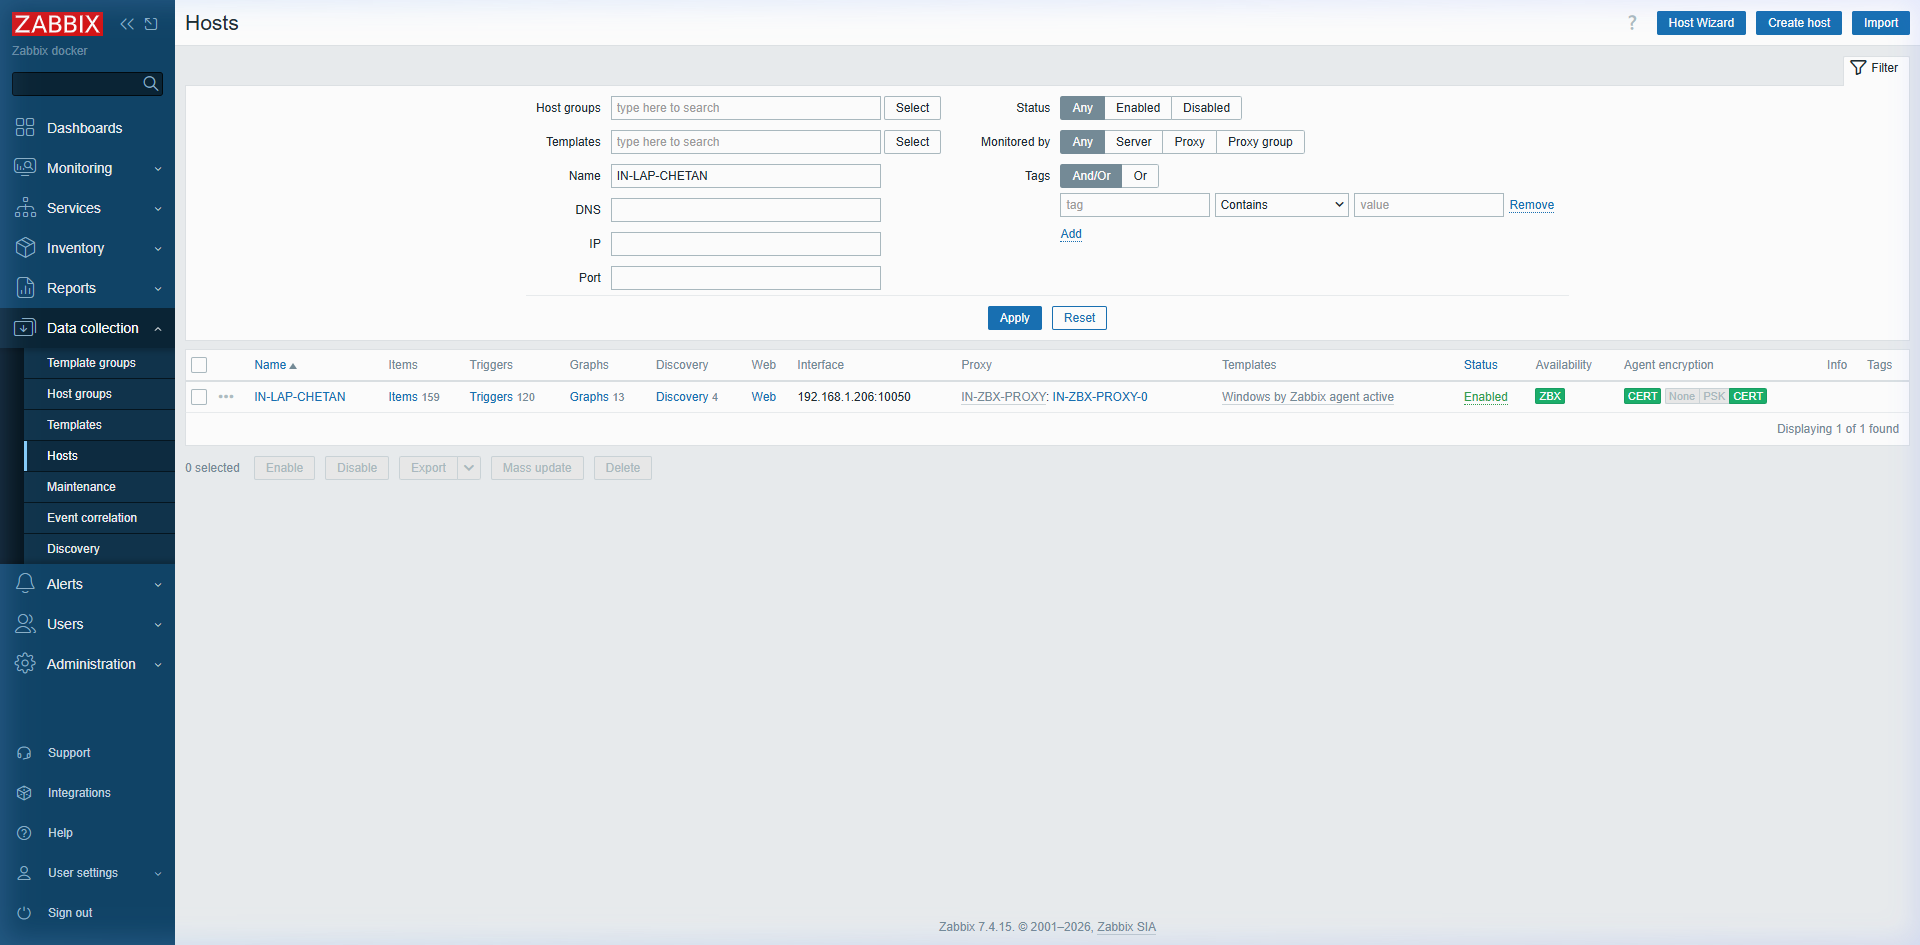
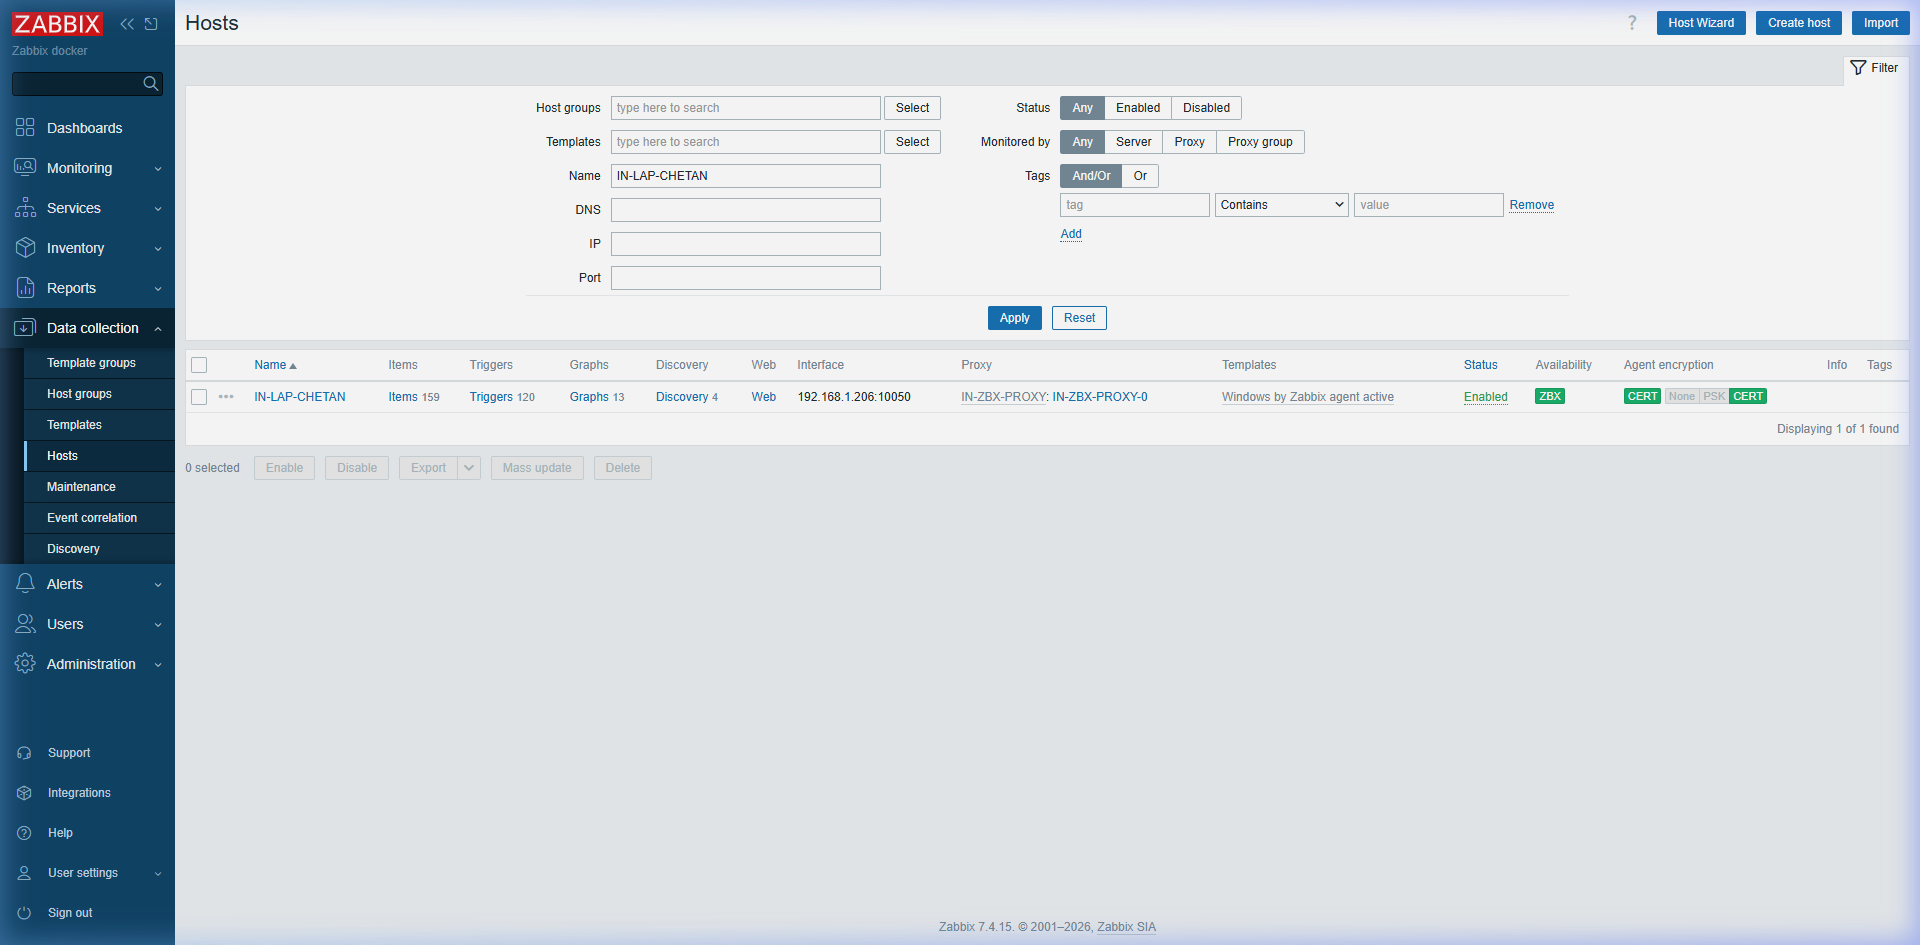
feat(zabbix): implement single fleet wildcard certificate for agent mTLS and clarify subdomain topology

Changed region(s): [[0.4375, 0.0, 1.0, 1.0]]

diff --git a/05-infra-apps/06-zabbix/README.md b/05-infra-apps/06-zabbix/README.md
@@ -932,31 +932,28 @@ Furthermore, the agent is configured in a **Hybrid Dual-Mode** adhering to indus
 
 ---
 
-### 📋 Step-by-Step Configuration Guide
+### 📋 Step-by-Step Configuration Guide (Single Fleet Wildcard Certificate)
 
-#### Step 1: Issue Host Certificate via cert-manager
+#### Step 1: Issue Single Fleet Wildcard Certificate via cert-manager
 
-Add the host certificate definition to [`zabbix-certificates.yaml`](zabbix-certificates.yaml):
+Instead of generating a unique certificate for every machine, generate **ONE** long-lived Fleet Certificate in [`zabbix-certificates.yaml`](zabbix-certificates.yaml):
 
 ```yaml
 apiVersion: cert-manager.io/v1
 kind: Certificate
 metadata:
-  name: zabbix-agent-in-lap-chetan-tls
+  name: zabbix-agent-fleet-tls
   namespace: zabbix
 spec:
-  secretName: zabbix-agent-in-lap-chetan-tls-secret
+  secretName: zabbix-agent-fleet-tls-secret
   issuerRef:
     name: local-ca-issuer
     kind: ClusterIssuer
-  commonName: "IN-LAP-CHETAN"
+  commonName: "*.agents.chetan.local"
   dnsNames:
-    - "IN-LAP-CHETAN"
-    - "host.docker.internal"
-    - "localhost"
-  ipAddresses:
-    - "127.0.0.1"
-  duration: 8760h   # 1 year
+    - "*.agents.chetan.local"
+    - "zabbix-agent-fleet"
+  duration: 26280h # 3 years (long-lived for fleet distribution)
   renewBefore: 720h # 30 days
   privateKey:
     algorithm: RSA
@@ -966,37 +963,37 @@ spec:
 Apply and verify secret creation:
 ```bash
 kubectl apply -f zabbix-certificates.yaml -n zabbix
-kubectl get certificate -n zabbix zabbix-agent-in-lap-chetan-tls
+kubectl get certificate -n zabbix zabbix-agent-fleet-tls
 ```
 
 ---
 
-#### Step 2: Export Certificates to Windows Host
+#### Step 2: Export Fleet Certificate Files for Fleet Distribution
 
-Export the CA, Client Certificate, and Private Key from Kubernetes to the Windows host directory `C:\ProgramData\zabbix\tls\`:
+Export the CA, Fleet Certificate, and Fleet Private Key from Kubernetes. These 3 files can be packaged into your standard software deployment package (MSI installer, Active Directory GPO, Ansible playbook, or Golden Image):
 
 ```powershell
-# Create TLS storage directory
+# Create TLS storage directory on target host
 New-Item -ItemType Directory -Force -Path "C:\ProgramData\zabbix\tls"
 
-# Extract CA certificate
-$ca = kubectl get secret -n zabbix zabbix-agent-in-lap-chetan-tls-secret -o jsonpath='{.data.ca\.crt}'
+# Extract Root CA certificate
+$ca = kubectl get secret -n zabbix zabbix-agent-fleet-tls-secret -o jsonpath='{.data.ca\.crt}'
 [System.Text.Encoding]::UTF8.GetString([System.Convert]::FromBase64String($ca)) | Out-File -FilePath "C:\ProgramData\zabbix\tls\ca.crt" -Encoding ascii
 
-# Extract Host Certificate
-$crt = kubectl get secret -n zabbix zabbix-agent-in-lap-chetan-tls-secret -o jsonpath='{.data.tls\.crt}'
-[System.Text.Encoding]::UTF8.GetString([System.Convert]::FromBase64String($crt)) | Out-File -FilePath "C:\ProgramData\zabbix\tls\in_lap_chetan.crt" -Encoding ascii
+# Extract Fleet Certificate
+$crt = kubectl get secret -n zabbix zabbix-agent-fleet-tls-secret -o jsonpath='{.data.tls\.crt}'
+[System.Text.Encoding]::UTF8.GetString([System.Convert]::FromBase64String($crt)) | Out-File -FilePath "C:\ProgramData\zabbix\tls\fleet.crt" -Encoding ascii
 
-# Extract Host Private Key
-$key = kubectl get secret -n zabbix zabbix-agent-in-lap-chetan-tls-secret -o jsonpath='{.data.tls\.key}'
-[System.Text.Encoding]::UTF8.GetString([System.Convert]::FromBase64String($key)) | Out-File -FilePath "C:\ProgramData\zabbix\tls\in_lap_chetan.key" -Encoding ascii
+# Extract Fleet Private Key
+$key = kubectl get secret -n zabbix zabbix-agent-fleet-tls-secret -o jsonpath='{.data.tls\.key}'
+[System.Text.Encoding]::UTF8.GetString([System.Convert]::FromBase64String($key)) | Out-File -FilePath "C:\ProgramData\zabbix\tls\fleet.key" -Encoding ascii
 ```
 
 ---
 
-#### Step 3: Configure `zabbix_agent2.conf`
+#### Step 3: Configure Universal `zabbix_agent2.conf`
 
-Create or update `C:\ProgramData\zabbix\zabbix_agent2.conf`:
+All 100s of hosts can use the exact same base configuration file (only changing `Hostname` or leaving `HostnameItem=system.hostname` to auto-detect the Windows computer name):
 
 ```ini
 ### GENERAL PARAMETERS
@@ -1004,6 +1001,8 @@ LogType=file
 LogFile=C:\ProgramData\zabbix\zabbix_agent2.log
 LogFileSize=10
 Hostname=IN-LAP-CHETAN
+# Or use automatic hostname detection for all fleet hosts:
+# HostnameItem=system.hostname
 
 ### PASSIVE CHECKS (SECONDARY)
 # Authorized proxies and container networks allowed to pull metrics
@@ -1016,12 +1015,12 @@ ServerActive=zbx-proxy.chetan.local:10051
 BufferSize=1000
 BufferSend=5
 
-### TLS ENCRYPTION (X.509 CERTIFICATE)
+### TLS ENCRYPTION (X.509 FLEET CERTIFICATE)
 TLSConnect=cert
 TLSAccept=cert
 TLSCAFile=C:\ProgramData\zabbix\tls\ca.crt
-TLSCertFile=C:\ProgramData\zabbix\tls\in_lap_chetan.crt
-TLSKeyFile=C:\ProgramData\zabbix\tls\in_lap_chetan.key
+TLSCertFile=C:\ProgramData\zabbix\tls\fleet.crt
+TLSKeyFile=C:\ProgramData\zabbix\tls\fleet.key
 ```
 
 Verify configuration syntax:
@@ -1047,27 +1046,61 @@ Or run directly in standalone background mode:
 
 ---
 
-#### Step 5: Update Zabbix Database & Enforce Host Encryption
+#### Step 5: Onboard Hosts: Manual or Automated Flow
 
-Update the host record in PostgreSQL to enforce Certificate encryption for both incoming (passive) and outgoing (active) checks:
+##### Flow A: Automated Registration (Zero Touch for 100s of Hosts)
+In Zabbix Web UI (**Alerts > Actions > Autoregistration actions**):
+1. Create an Action: `Auto-register Windows Fleet`.
+2. **Condition**: Host name contains `IN-LAP` or `SRV-`.
+3. **Operations**:
+   * Add host
+   * Link to template: `Windows by Zabbix agent active`
+   * Assign to Proxy Group: `IN-ZBX-PROXY`
+4. When a new computer starts the agent with `fleet.crt` and `fleet.key`, it automatically establishes an mTLS connection and joins Zabbix with zero manual intervention.
 
+##### Flow B: Manual Host Configuration
+Update the host record in PostgreSQL or via the Web UI:
 ```bash
 kubectl exec -n zabbix zabbix-postgresql-0 -- psql -U zabbix -d zabbix -c "
   UPDATE hosts
   SET tls_connect = 4,
       tls_accept = 4,
-      tls_subject = 'CN=IN-LAP-CHETAN'
+      tls_subject = 'CN=*.agents.chetan.local'
   WHERE host = 'IN-LAP-CHETAN';
 
   UPDATE host_proxy
   SET tls_accept = 4,
-      tls_subject = 'CN=IN-LAP-CHETAN'
-  WHERE host = 'IN-LAP-CHETAN';
+      tls_subject = 'CN=*.agents.chetan.local'
+  WHERE hostid = (SELECT hostid FROM hosts WHERE host = 'IN-LAP-CHETAN');
 "
 
 # Reload server config cache
 kubectl exec -n zabbix $(kubectl get pod -n zabbix -l app.kubernetes.io/component=server -o jsonpath='{.items[0].metadata.name}') -c zabbix-server -- zabbix_server -R config_cache_reload
 ```
+
+---
+
+### 🌐 Sub-Domain & DNS Architecture Clarification
+
+#### Do we need a separate sub-domain for the Zabbix Standby Server?
+**NO. Standby Server does NOT need its own subdomain or external route.**
+* In active-passive Zabbix HA, **only the Active Server node accepts incoming traffic**.
+* The Standby node runs in passive listening standby mode, communicating only with PostgreSQL and tracking the `ha_node` table heartbeat.
+* When failover occurs, the Standby promotes itself to Active. Both server pods are fronted internally by Kubernetes Service `zabbix-zabbix-server:10051` and externally by Gateway route `zbx-srv.chetan.local:10051`.
+* Giving the standby node a separate subdomain is an anti-pattern because external proxies and agents should never route traffic to an inactive standby node.
+
+#### Complete List of Required Sub-Domains:
+Across the entire platform, only **4 sub-domains** are needed:
+
+| Sub-Domain FQDN | Port / Protocol | Target Workload | Description |
+| :--- | :--- | :--- | :--- |
+| **`zabbix.chetan.local`** | `443` (HTTPS) | `zabbix-zabbix-web` | Web UI Dashboard & JSON-RPC API |
+| **`zbx-srv.chetan.local`** | `10051` (TCP) | `zabbix-zabbix-server` (Active) | Central Server Trapper (used by remote regional proxies) |
+| **`zbx-proxy.chetan.local`** | `10051` (TCP) | `zabbix-zabbix-proxy` | Regional Proxy Trapper (used by local agents & devices) |
+| **`zbx-snmp.chetan.local`** | `162` (UDP) | `zabbix-snmptraps` | SNMP Trapper daemon (used by network switches/PLCs) |
+
+> [!TIP]
+> **Production DNS Simplification**: In production, configuring a single wildcard DNS entry `*.chetan.local` pointing to the Traefik Gateway IP automatically resolves all current and future subdomains without creating individual DNS records.
 
 ---
 
@@ -1079,21 +1112,13 @@ In the Zabbix Web UI, **`IN-LAP-CHETAN`** is actively monitored through **`IN-ZB
 
 ![Zabbix Host CERT Encryption Proof](images/zabbix_host_cert_encryption.png)
 
-* **Proxy Column**: Displays `IN-ZBX-PROXY: IN-ZBX-PROXY-0` (monitored by regional proxy group, active node 0).
-* **Availability Column**: Displays green `ZBX` badge indicating live, successful agent communication.
-* **Agent Encryption Column**: Displays green `CERT` badge confirming strict X.509 certificate validation.
-
 ---
 
-#### 2. Live Proxy Trapper Logs (Active Check Verification)
+#### 2. Host Configuration > Encryption Tab
 
-Inspecting `zabbix-zabbix-proxy-0` logs confirms the mutual TLS handshake and streaming metric ingestion from `IN-LAP-CHETAN`:
+Inspecting the Host Encryption settings confirms that both inbound (passive) and outbound (active) connections use **Certificate** encryption matching the fleet wildcard Subject `CN=*.agents.chetan.local`:
 
-```text
-zbx_tls_accept() peer certificate issuer:"CN=Avgol Internal Root CA,O=Avgol Nonwovens,L=Dimona,ST=South,C=IL" subject:"CN=IN-LAP-CHETAN"
-trapper got '{"request":"active checks","host":"IN-LAP-CHETAN","version":"7.4.15"}'
-trapper got '{"request":"agent data","data":[{"id":1,"itemid":48020,"value":"16384","clock":1792148400,"ns":123456789},...],"session":"a1b2c3d4..."}'
-```
+![Zabbix Host Fleet Encryption Details](images/zabbix_host_fleet_encryption.png)
 
 ---
 
